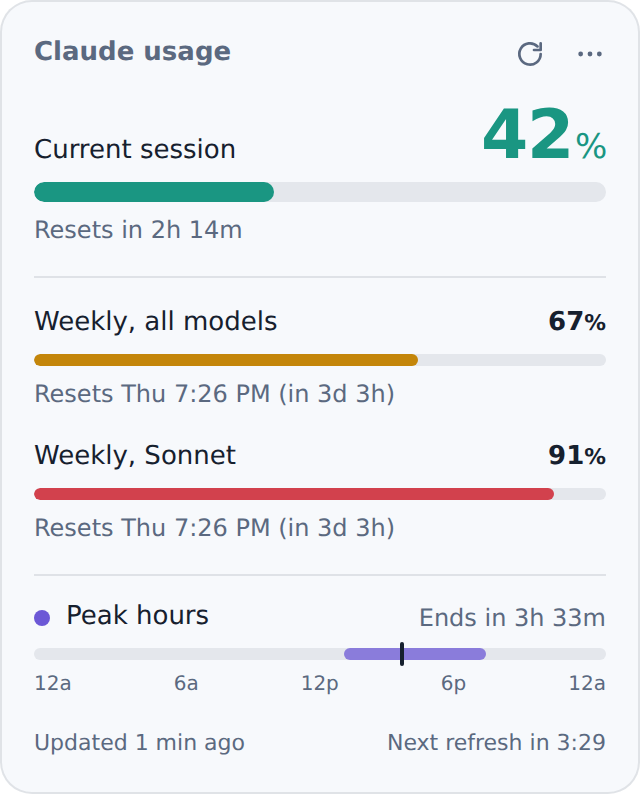
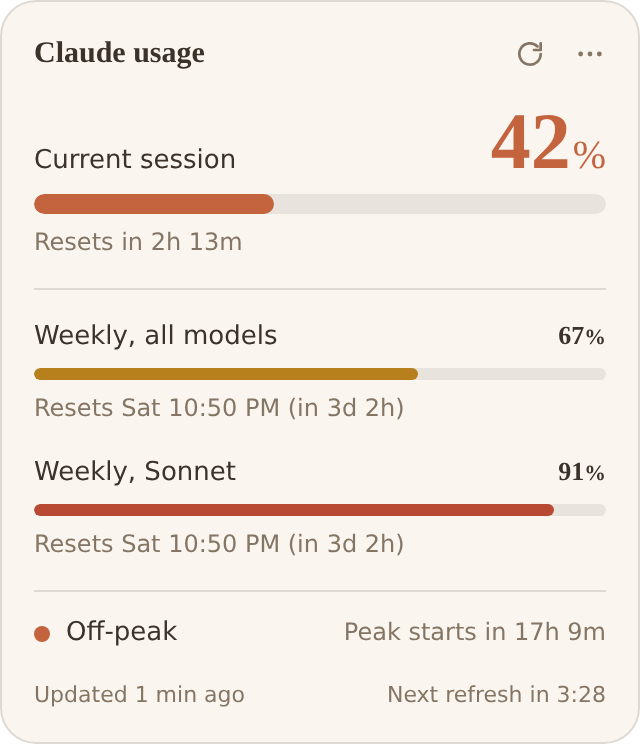
docs: add the Microsoft Store listing and make the README a user guide

diff --git a/README.md b/README.md
@@ -2,12 +2,16 @@
 
 A small Windows desktop widget that shows how much of your Claude plan you have used, when each limit resets, and whether Claude's peak hours are on right now.
 
-It works with Free, Pro and Max accounts. The widget shows whichever limits claude.ai reports for your account: the 5-hour session, the weekly limit, and any per-model weekly limits.
+<a href="https://apps.microsoft.com/detail/9PKK2BWSPQG6?mode=direct"><img src="https://get.microsoft.com/images/en-us%20dark.svg" width="200" alt="Get it from Microsoft" /></a>
+
+It shows usage for paid plans: Pro, Max, Team and Enterprise. The widget shows whichever limits claude.ai reports for your account: the 5-hour session, the weekly limit, and any per-model weekly limits. claude.ai doesn't currently report usage figures for Free accounts, so on the Free plan there are no bars to show; the widget still shows peak hours.
 
 <p>
   <img src="docs/screenshot-dark.png" width="320" alt="Widget in dark mode" />
   <img src="docs/screenshot-light.png" width="320" alt="Widget in light mode" />
 </p>
+
+If this saves you a few trips to Settings → Usage, a ⭐ on the repo would mean a lot. It helps other people find it.
 
 > Not affiliated with or endorsed by Anthropic. "Claude" is a trademark of Anthropic.
 
@@ -15,191 +19,90 @@ It works with Free, Pro and Max accounts. The widget shows whichever limits clau
 
 - **Current session** (the 5-hour window): percent used and time until it resets.
 - **Weekly limits**: every weekly bar your account has, each with its reset day and countdown.
-- **Peak hours**: whether peak hours are active, a countdown to the next change, and a strip showing today's peak window in your local time. The schedule is Monday to Friday, 13:00 to 19:00 UTC, as published on [claude-peak-time.pages.dev](https://claude-peak-time.pages.dev/). Turn it off from the menu if it doesn't apply to your plan.
+- **Peak hours**: whether peak hours are on, and a countdown to the next change, in your local time. The schedule is Monday to Friday, 13:00 to 19:00 UTC, as published on [claude-peak-time.pages.dev](https://claude-peak-time.pages.dev/). You can turn this off in Settings if it doesn't apply to your plan.
 
-Your claude.ai chats, the Claude desktop app and Claude Code all draw from the same limits, so these numbers cover all of them.
-
-## Refreshing
-
-- The widget refreshes every 5 minutes by default. Change this from the menu under **Refresh every** (1 to 30 minutes).
-- Click the refresh button to refresh immediately. The next automatic refresh then happens a full interval after your manual one, so a manual refresh always restarts the countdown.
-- The footer shows when the data was last updated and when the next refresh is due.
+Bars turn amber and then red as you get close to a limit. Your claude.ai chats, the Claude desktop app and Claude Code all draw from the same limits, so these numbers cover all of them.
 
 ## Install
 
-Download the latest installer from [Releases](../../releases), or get it from the Microsoft Store (once published).
+**Recommended:** get it from the [Microsoft Store](https://apps.microsoft.com/detail/9PKK2BWSPQG6?mode=direct). It installs in one click, updates automatically, and doesn't show any security warnings.
 
-**"Windows protected your PC"?** Windows shows this for new apps whose installer isn't signed yet or hasn't built up a download history. Click **More info**, then **Run anyway**. The Microsoft Store version doesn't show this warning. See [Code signing](#code-signing) for the plan.
+<a href="https://apps.microsoft.com/detail/9PKK2BWSPQG6?mode=direct"><img src="https://get.microsoft.com/images/en-us%20dark.svg" width="200" alt="Get it from Microsoft" /></a>
 
-On first launch, click **Sign in**. claude.ai opens in its own window once its page has loaded, and the window closes on its own once you're signed in.
+**Or** download the installer from [Releases](../../releases). Windows may show **"Windows protected your PC"**, because the installer isn't signed; click **More info**, then **Run anyway**.
 
-It's a desktop widget: it sits on your desktop, above the wallpaper and icons and below every app window. Open windows cover it, just like desktop icons, and pressing **Win+D** (Show desktop) brings it into view. It doesn't appear in the taskbar or in Alt+Tab.
+Works on Windows 10 and 11. A macOS version is in progress.
 
-The widget sizes itself to what your account shows: it is exactly as tall as its content and just as wide, so it's a square with the same even spacing on every plan. Accounts with more limits get a bigger square. To make the whole widget bigger, for example on a large monitor, drag its bottom-right corner (double-click the corner to go back to 100%), or use **Settings → Appearance → Size**. Like a desktop icon, it sits on your icon grid: drag it by its title and it snaps to the nearest tile when you let go. It remembers where you put it.
+## Getting started
 
-Click the `⋯` button on the widget, or right-click the tray icon, for **Refresh now**, **Settings**, **Hide widget** and **Quit**. Clicking the tray icon hides or shows the widget.
+1. Open the app and click **Sign in**. claude.ai opens in its own window; sign in as usual, and the window closes on its own once you're in.
+2. If your account belongs to more than one organization (for example a personal plan and a work or university seat), pick the one to show. The widget remembers your choice.
+3. That's it. The widget refreshes on its own every 5 minutes.
+
+### Where the widget lives
+
+The widget sits on your desktop, like a large desktop icon: above the wallpaper, and behind every app window. Open windows cover it, and pressing **Win+D** (Show desktop) brings it into view. It doesn't appear in the taskbar or in Alt+Tab.
+
+- **Move it:** drag it by its title. When you let go, it snaps to your desktop icon grid, or flush into a screen corner. It remembers where you put it.
+- **Resize it:** drag its bottom-right corner to make the whole widget bigger or smaller, for example on a large monitor. Double-click the corner to go back to 100%.
+- **Menu:** click the `⋯` button on the widget, or right-click the tray icon, for **Refresh now**, **Settings**, **Hide widget** and **Quit**. Clicking the tray icon hides or shows the widget.
+
+The widget sizes itself to your account: it's exactly as tall as its content and just as wide, so it's a square with even spacing on every plan. Accounts with more limits get a bigger square.
+
+### Refreshing
+
+- The widget refreshes every 5 minutes by default. You can change this in Settings (1 to 30 minutes).
+- Click the refresh button to refresh straight away. The countdown to the next automatic refresh then starts again.
+- The footer shows when the data was last updated and when the next refresh is due.
 
 ## Settings
 
-Open **Settings** from the `⋯` menu or the tray icon. Everything is there, no files to edit:
+Open **Settings** from the `⋯` menu or the tray icon:
 
-- **General:** how often to refresh (1 to 30 minutes), whether to show peak hours, and whether to start with Windows.
+- **General:** how often to refresh, whether to show peak hours, and whether to start with Windows. (In the Microsoft Store version, Windows manages this instead: Settings → Apps → Startup.)
 - **Appearance:** style (Cozy, with warm colours and serif numbers, or Classic), theme (System, Dark or Light), accent colour, background opacity, size (80% to 250%), and resetting the widget's position.
 - **Account:** sign in or out, choose the organization to show if your account has several, and open claude.ai.
 - **About:** version and a link to this repository.
 
-## Custom CSS (for developers)
+### Custom CSS
 
-If you want to change more than Settings offers, choose **Settings > Appearance > Custom CSS > Open CSS file**. That opens your personal `theme.css`, which loads after the built-in styles and your Settings choices. Save it and the widget updates within a second.
-
-Most changes only need a variable:
+Want to restyle it beyond that? **Settings → Appearance → Custom CSS → Open CSS file** opens your own `theme.css`, which loads after the built-in styles. Save it and the widget updates within a second. Most changes only need a variable, for example:
 
 ```css
 :root {
-  --bg: rgba(30, 20, 45, 0.92);   /* panel background (overrides theme and opacity) */
-  --ok: #7dd3fc;                  /* bar colour under the warning threshold */
+  --bg: rgba(30, 20, 45, 0.92);   /* panel background */
+  --ok: #7dd3fc;                  /* bar colour under 60% */
   --warn: #fbbf24;                /* bar colour from 60% */
   --danger: #fb7185;              /* bar colour from 85% */
   --radius: 22px;                 /* corner rounding */
-  --hero-size: 40px;              /* size of the session percentage */
 }
 ```
 
-| Variable | What it changes |
-| --- | --- |
-| `--bg`, `--border`, `--radius`, `--pad` | Panel background, outline, corner rounding, inner spacing |
-| `--font`, `--font-numbers` | Text font and the font used for percentages |
-| `--text`, `--muted` | Main text and secondary text colours |
-| `--hero-size` | Size of the session percentage |
-| `--track`, `--bar-height`, `--hero-bar-height` | Bar background and bar thickness |
-| `--ok`, `--warn`, `--danger` | Bar colours by level |
-| `--peak`, `--off-peak` | Peak-hours dot and strip colours |
+You can also restyle any element, for example `.peak { display: none; }`. To go back to the default look, empty the file.
 
-You can also restyle any element, for example `.peak { display: none; }` or `.footer { opacity: 0.6; }`. To go back to the default look, empty the file.
+## Privacy
 
-The file lives in `%APPDATA%\Usage Meter for Claude\theme.css` (Store builds keep it inside the app's package folder, so use the Settings button to find it). Share themes by sharing that file. Other settings are stored next to it in `config.json`; `warnAt` and `dangerAt` there set the bar colour thresholds in percent.
+- Your claude.ai sign-in stays on your computer, in the widget's own browser profile. Sign out in Settings to delete it.
+- The widget only talks to claude.ai, to read your usage. No analytics, no telemetry, no third-party servers.
+- It's open source, so you can read exactly what it does. See [PRIVACY.md](PRIVACY.md) for the full policy.
 
-## How it works
+## Troubleshooting
 
-claude.ai has a private endpoint that powers its own Usage page:
+- **The widget shows an error instead of numbers.** claude.ai's usage data isn't an official, documented API, so it can change without notice. The widget shows an error rather than wrong numbers; check for an update.
+- **claude.ai shows a browser check.** Choose **Open claude.ai** in Settings → Account, let the page load, then click refresh.
+- **Google sign-in is refused.** Some sign-in providers are strict about embedded browsers. Use the email option on the claude.ai sign-in page instead.
+- **The widget doesn't line up exactly with my icons.** It asks Windows for your desktop icon spacing; with unusual auto-arrange settings it can be a few pixels off. Settings → About shows the tile size it detected.
 
-```
-GET https://claude.ai/api/organizations/<org_id>/usage
-```
+Found a bug or have an idea? [Open an issue](../../issues). The code is MIT-licensed, so you're also free to take it and make it your own.
 
-The widget keeps your claude.ai sign-in in its own browser profile (an Electron session partition), like a separate browser. A hidden window on the claude.ai origin calls that endpoint, so requests behave like a normal browser tab.
+## Security
 
-The response includes a `limits` list. Each entry has a group (`session` or `weekly`), a percent, a reset time and, for limits that apply to one model or product, a name supplied by claude.ai (for example "Cowork"). The widget draws one bar per entry, so every plan, and any new model or product limit, shows up without code changes. If the list is missing or empty, the widget falls back to the older `five_hour` and `seven_day_<name>` keys. Other keys in the response are ignored.
-
-### Accounts with more than one organization
-
-Many people belong to several organizations, such as a personal plan and a work or university Enterprise seat. Each one has its own limits, so the widget never guesses:
-
-- With **one** claude.ai organization, the widget shows it straight away.
-- With **two or more**, the widget asks which one to show and remembers the choice. The organization currently selected on claude.ai is marked to help you pick. Change it later under **Organization** in the menu. The chosen organization's name appears under the widget title.
-- API-only organizations (Claude Console accounts) have no session or weekly limits, so they are never listed.
-- If you leave the chosen organization, the widget asks again. Signing out clears the choice.
-
-Everything that differs between operating systems lives in `src/main/platform/`, behind one small interface described in `platform/index.js`. All claude.ai logic lives in `src/main/claude.js`, and response parsing lives in `src/shared/core.js`. If claude.ai changes its endpoints, those are the files to fix. `test/fixtures/` holds real responses for the tests.
-
-### Privacy
-
-- Your session stays on your computer, in the widget's own profile. Sign out from the menu to delete it.
-- The widget only talks to claude.ai. No analytics, no telemetry, no third-party servers.
-- The code is small and open; read it.
-
-### Known limits
-
-- The widget lines up with your desktop icons by asking the desktop for its icon spacing. If your icons use auto-arrange with unusual spacing, the grid may be a few pixels off; Settings > About shows the tile size it detected.
-- Staying on the desktop layer uses standard Windows calls (`SetWindowPos` and friends, through the prebuilt [koffi](https://koffi.dev) library) because Electron has no setting for it. If those calls are unavailable, the widget behaves like a normal window instead. To see what it detects, run it with `$env:USAGE_METER_DEBUG_DESKTOP=1; npm start`.
-
-- The endpoint is undocumented and can change without notice. When it does, the widget shows an error instead of wrong numbers.
-- If claude.ai shows a browser check, choose **Open claude.ai** from the menu, let the page load, then refresh.
-- Some sign-in providers are strict about embedded browsers. If Google sign-in is refused, use the email option on the claude.ai sign-in page.
-
-## Develop
-
-Requires Node.js 20 or newer.
-
-```bash
-npm install
-npm start      # run the widget
-npm test       # logic tests and a syntax check of every source file
-```
-
-Project layout:
-
-```
-src/
-  main/
-    main.js              app lifecycle, widget window, tray menu, refresh scheduling
-    claude.js            sign-in window and claude.ai requests
-    config.js            settings file
-    preload.js           the small API the widget and Settings pages can call
-    theme-template.css   copied to the user's custom CSS file on first run
-    platform/
-      index.js           picks the implementation for the current OS
-      windows/           desktop layer, icon grid and Windows API calls
-      fallback/          plain-window behaviour for other systems
-  renderer/
-    index.html           widget markup
-    styles.css           built-in styles (all values are CSS variables)
-    renderer.js          rendering and live countdowns
-    settings.html        the Settings window (with settings.css and settings.js)
-  shared/
-    core.js              pure logic: peak hours, usage parsing, grid snapping, desktop placement, refresh scheduler
-test/
-  core.test.js           logic tests, platform interface checks, and a syntax check of every source file
-  fixtures/              real claude.ai usage responses used by the tests
-```
-
-`src/shared/core.js` has no dependencies and is loaded by both the main process and the widget, so the tests cover the same code the app runs.
-
-## Build installers
-
-```bash
-npm run dist         # dist/Usage Meter for Claude Setup <version>.exe, for GitHub Releases
-npm run dist:store   # dist/*.appx, for the Microsoft Store (needs store-identity.json)
-```
-
-### Code signing
-
-Windows SmartScreen warns about installers that aren't signed, and about signed installers that haven't been downloaded enough times yet to build a reputation. The options, cheapest first:
-
-| Option | Cost | Removes the warning? |
-| --- | --- | --- |
-| Microsoft Store | Free for individual developers | Yes. The Store signs the package, so Store installs show no warning. |
-| SignPath Foundation | Free for open-source projects that qualify | Gradually. Installers are signed by "SignPath Foundation"; the warning fades as downloads build reputation. |
-| Azure Artifact Signing (formerly Trusted Signing) | About $10 a month; individuals in the US and Canada | Gradually, same as above. |
-| OV certificate from a certificate authority | Roughly $150 to $300 a year | Gradually, same as above. |
-
-The plan for this project: publish to the Microsoft Store for a warning-free install, and apply to SignPath Foundation for the GitHub installer once the project has some history.
-
-### Publishing to the Microsoft Store
-
-1. Create a Microsoft Store developer account (free for individuals) at https://storedeveloper.microsoft.com and reserve the app name in Partner Center.
-2. In Partner Center, open **Product management → Product identity**. Copy `store-identity.example.json` to `store-identity.json` and fill in the three values. `store-identity.json` is ignored by Git, so your account details stay out of the repository.
-3. Run `npm run dist:store` and upload the `.appx` from `dist/`. The Store signs it for you.
-4. Store tiles come from `build/appx/`. Replace those PNGs with your own artwork if you like.
-5. In the listing, say clearly that the app is not affiliated with Anthropic. `docs/store-listing.md` has the listing text.
-
-In Store builds, "Start with Windows" is managed by Windows (Settings > Apps > Startup), so that setting is disabled there.
-
-## Verify a build
-
-1. `npm test` passes (55 tests).
-2. `npm start`, then sign in. The sign-in window appears once claude.ai has loaded, with no black screen. If your account has several organizations, pick one. The session, weekly and peak sections appear, and the footer counts down from "Next refresh in 5:00".
-3. Drag the widget a little and let go. It snaps to the same grid as your desktop icons.
-4. Click the widget, then click the desktop, then an app. The widget never disappears, not even briefly, and stays behind app windows. Press Win+D: the widget is visible.
-5. Open **Settings**. Switch the style between Cozy and Classic, and change the theme, accent and opacity: the widget updates straight away. Switch organization under Account: the widget shows that organization.
-6. Check the widget is square with even spacing: the gap above the title matches the gap below the footer, with no empty band anywhere. Drag the bottom-right corner: the whole widget grows and stays square. Double-click the corner: it goes back to 100%.
-7. Click refresh. The footer jumps back to about "Next refresh in 5:00".
-8. Choose **Sign out** in Settings > Account. The widget asks you to sign in again.
-
-## Contributing
-
-Contributions are welcome. Read [CONTRIBUTING.md](CONTRIBUTING.md) before opening a pull request, and report security issues privately as described in [SECURITY.md](SECURITY.md).
+Found a security problem? Please report it privately, as described in [SECURITY.md](SECURITY.md).
 
 ## License
 
 [MIT](LICENSE)
+
+---
+
+Thanks for checking it out! Bugs and ideas are always welcome.
